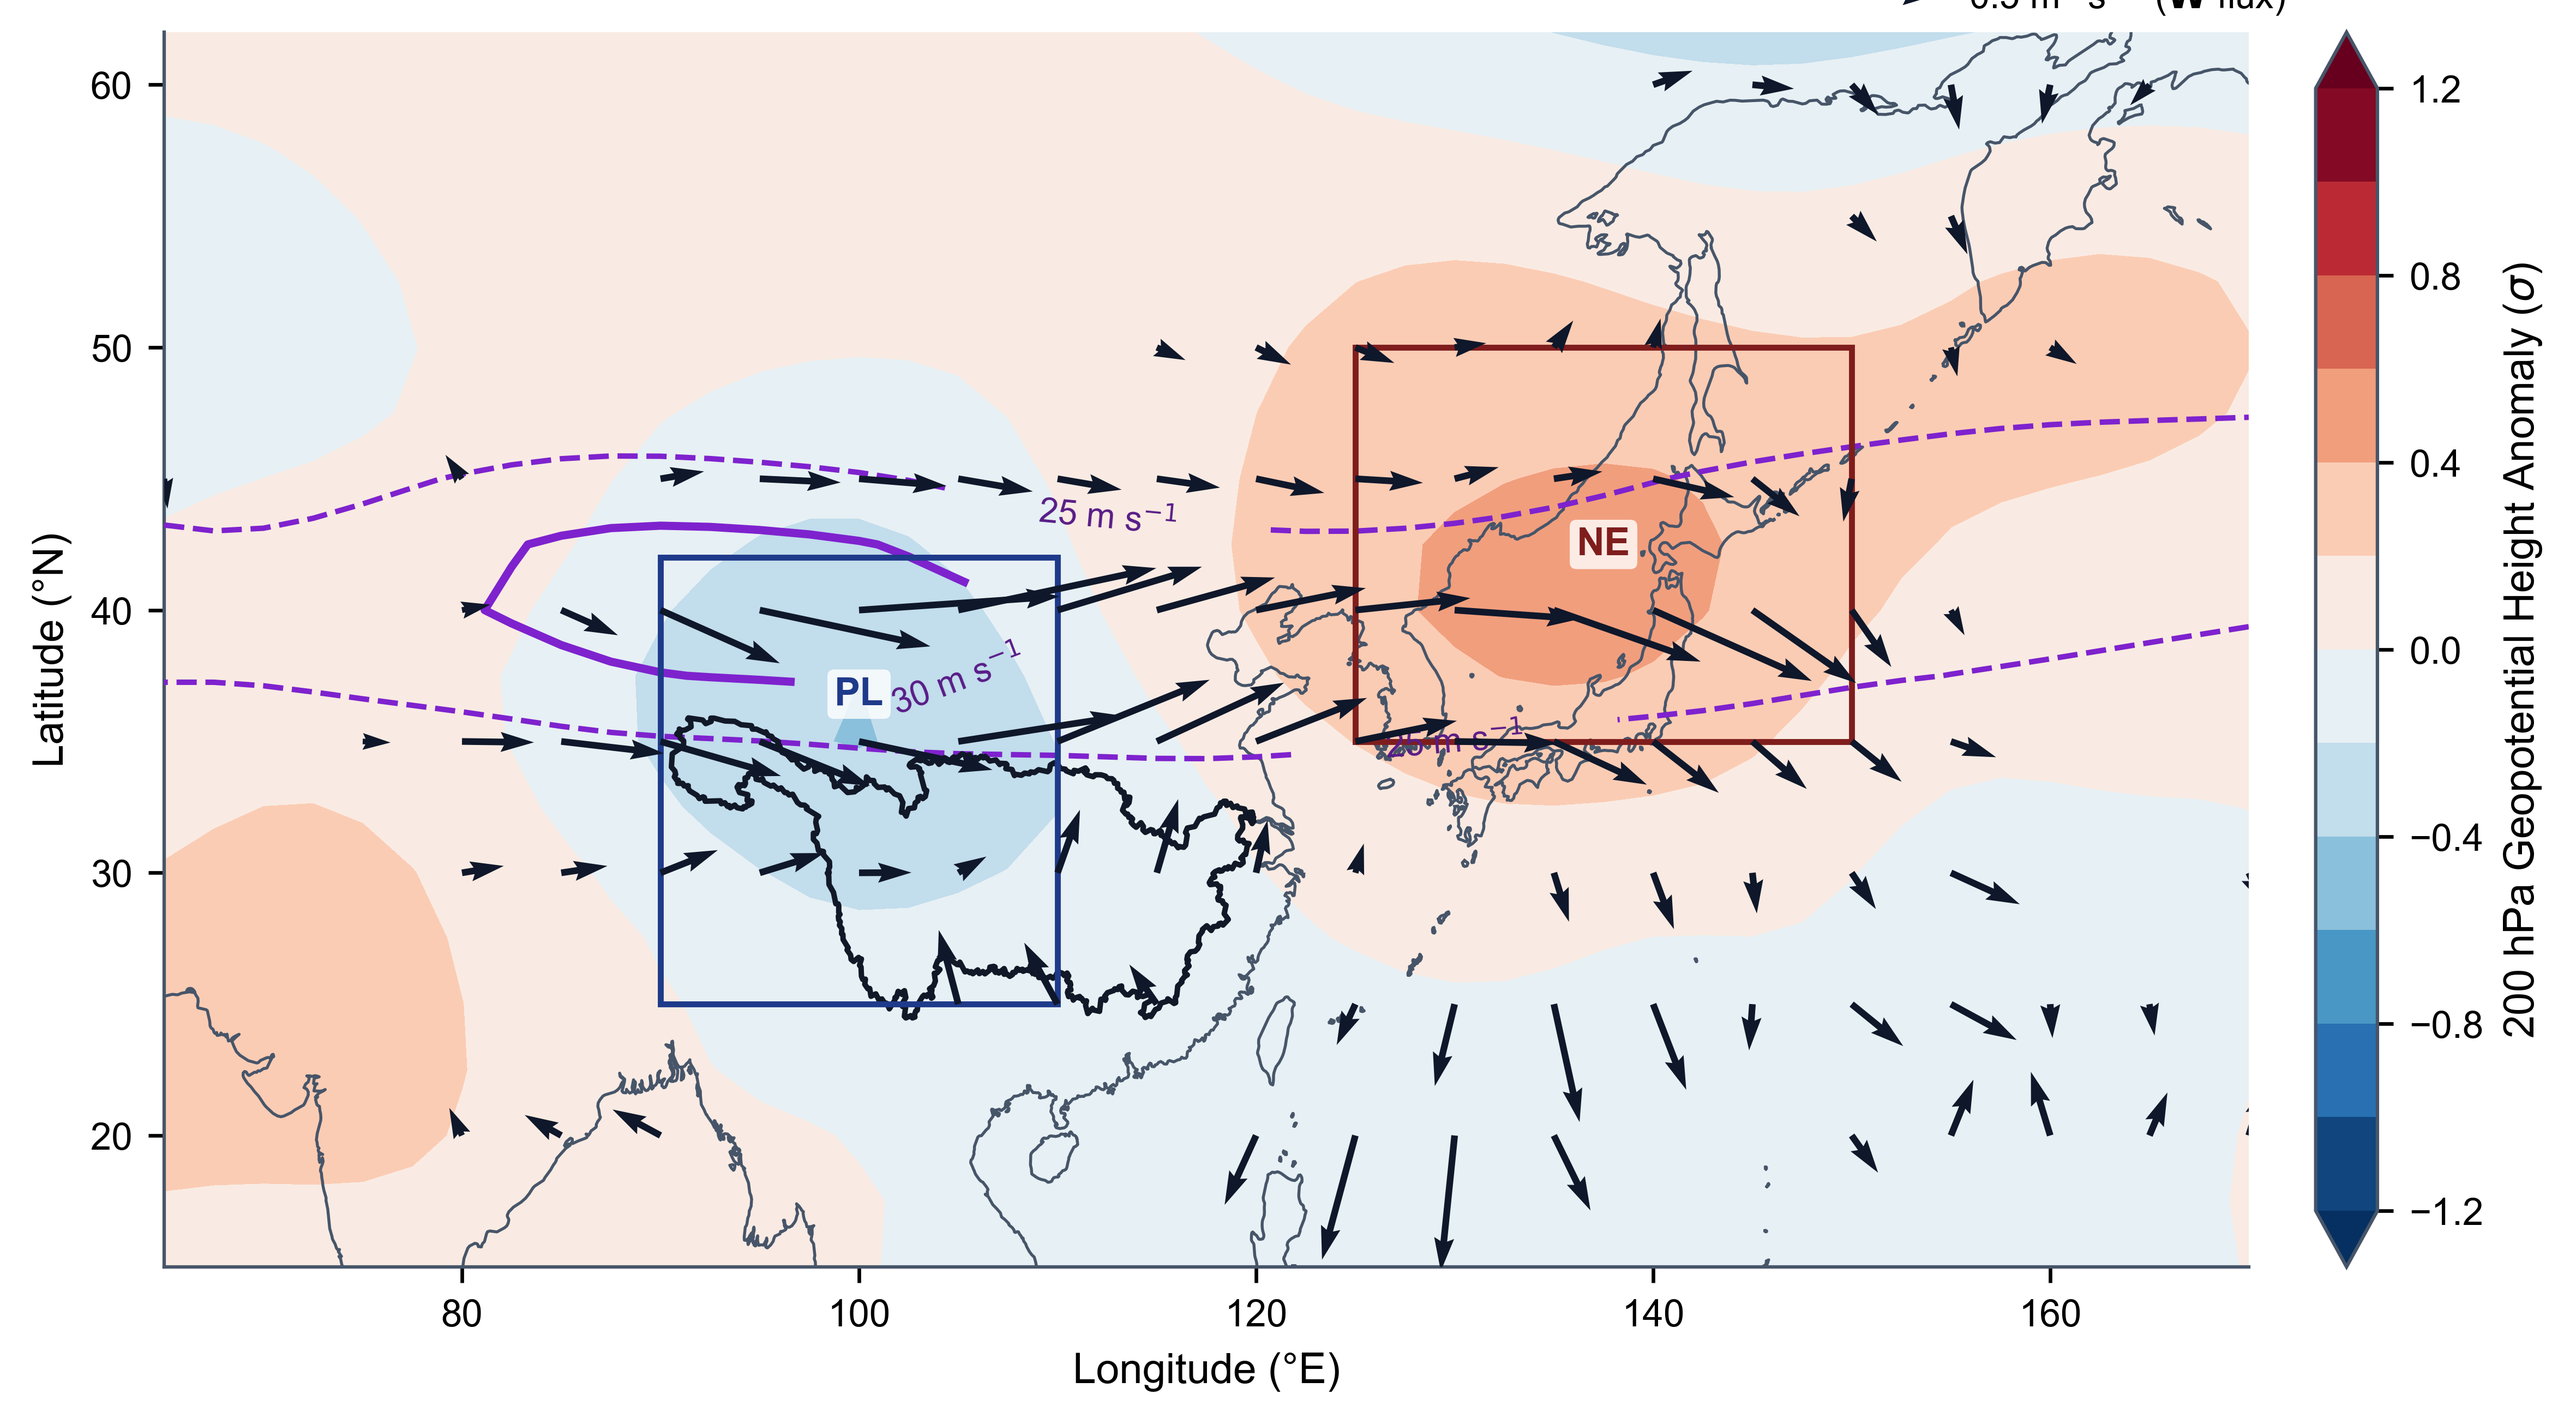
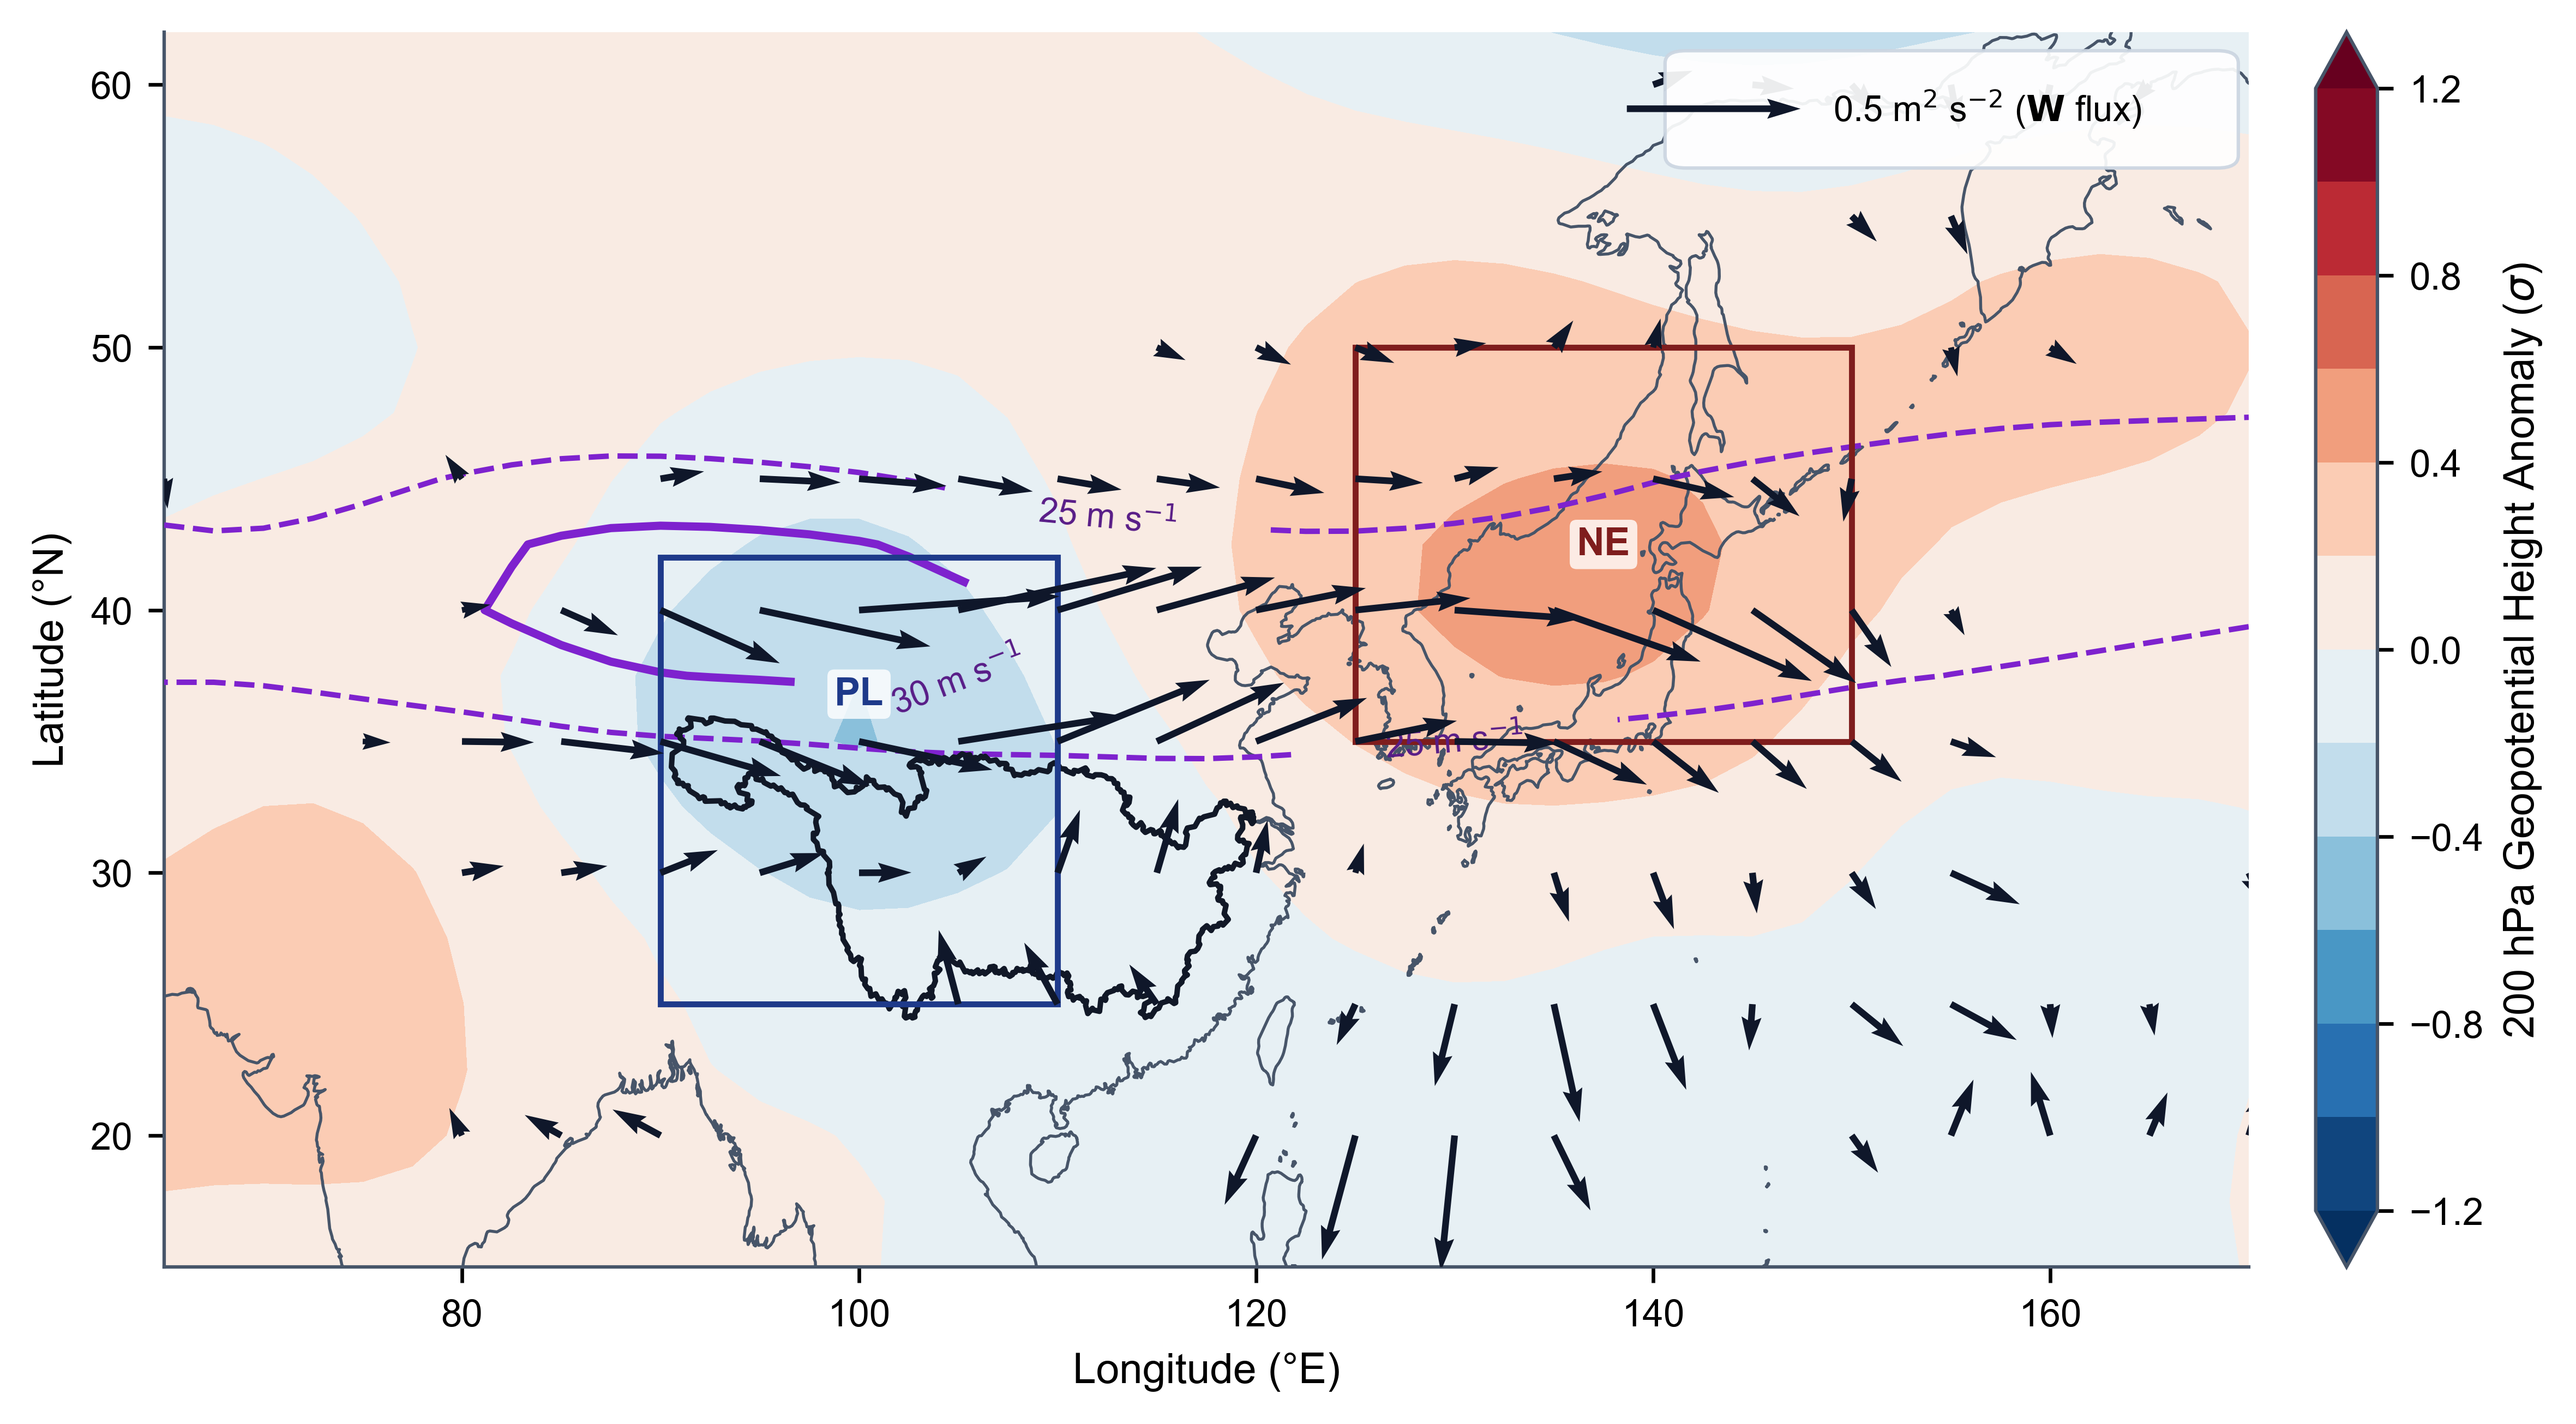
Keep ESM_Fig1 wave-flux scale box strictly inside axes bounds

Changed region(s): [[0.6225, 0.031, 0.8715, 0.1241]]

diff --git a/src/figures.py b/src/figures.py
@@ -843,7 +843,12 @@ def plot_esm_fig1_wave_flux(fields, vectors, mask, out_dir, formats=("png",)):
     step = 2
     qv = ax.quiver(lons_nc[::step], lats_nc[::step], wx[::step, ::step], wy[::step, ::step],
                    scale=6.0, width=0.0032, color="#0F172A", zorder=6)
-    ax.quiverkey(qv, 0.85, 1.03, 0.5, "0.5 m$^2$ s$^{-2}$ ($\\mathbf{W}$ flux)", labelpos="E", coordinates="axes", fontproperties={"size": 8.0})
+    ax.add_patch(mpatches.FancyBboxPatch(
+        (0.73, 0.90), 0.255, 0.075, transform=ax.transAxes,
+        boxstyle="round,pad=0.01", facecolor="#FFFFFF", alpha=0.92, edgecolor="#CBD5E1", lw=0.75, zorder=6.5,
+    ))
+    ax.quiverkey(qv, 0.785, 0.938, 0.5, "0.5 m$^2$ s$^{-2}$ ($\\mathbf{W}$ flux)",
+                 labelpos="E", coordinates="axes", fontproperties={"size": 7.8}).set_zorder(7)
 
     cb = plt.colorbar(cf, ax=ax, fraction=0.036, pad=0.03)
     cb.set_label("200 hPa Geopotential Height Anomaly ($\\sigma$)")
